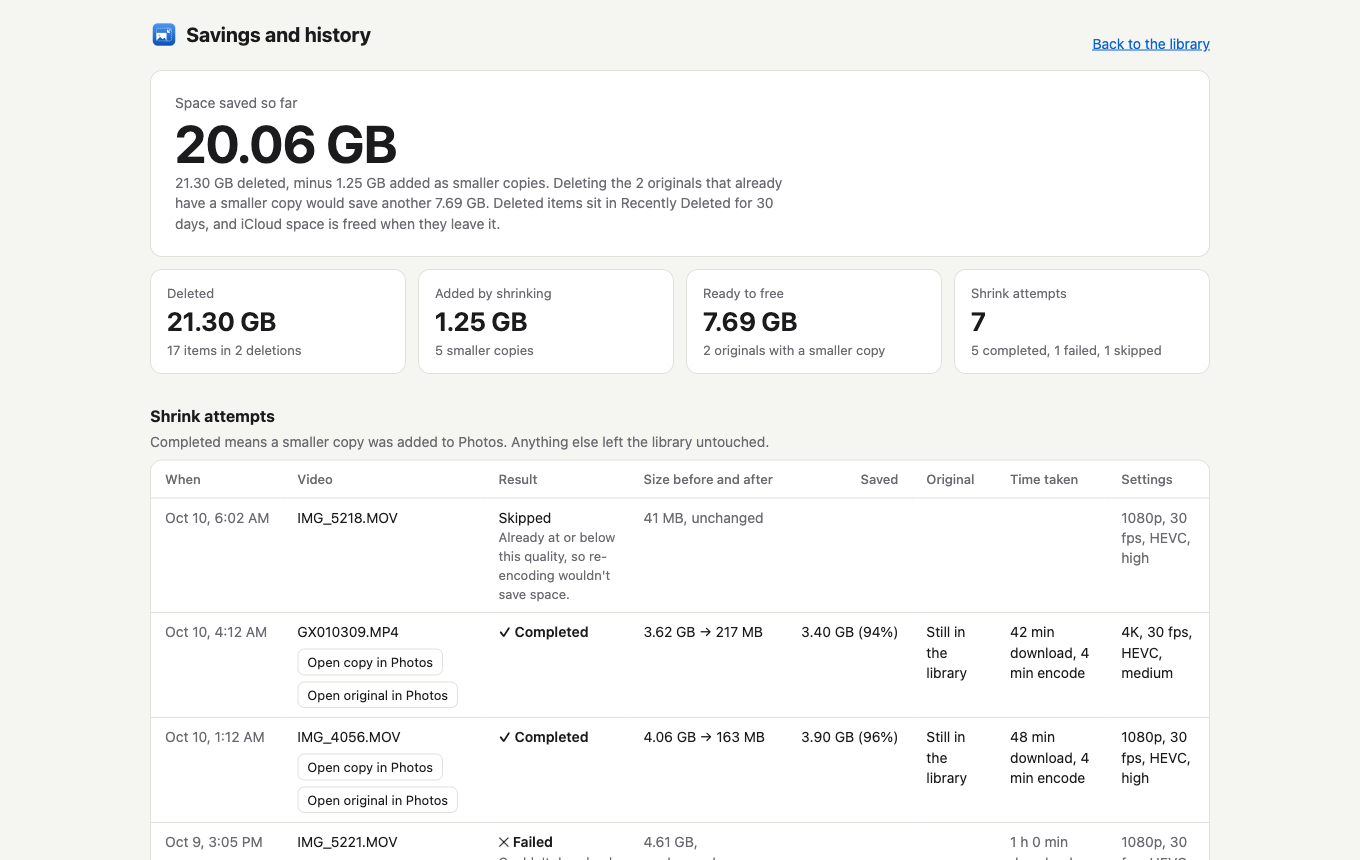
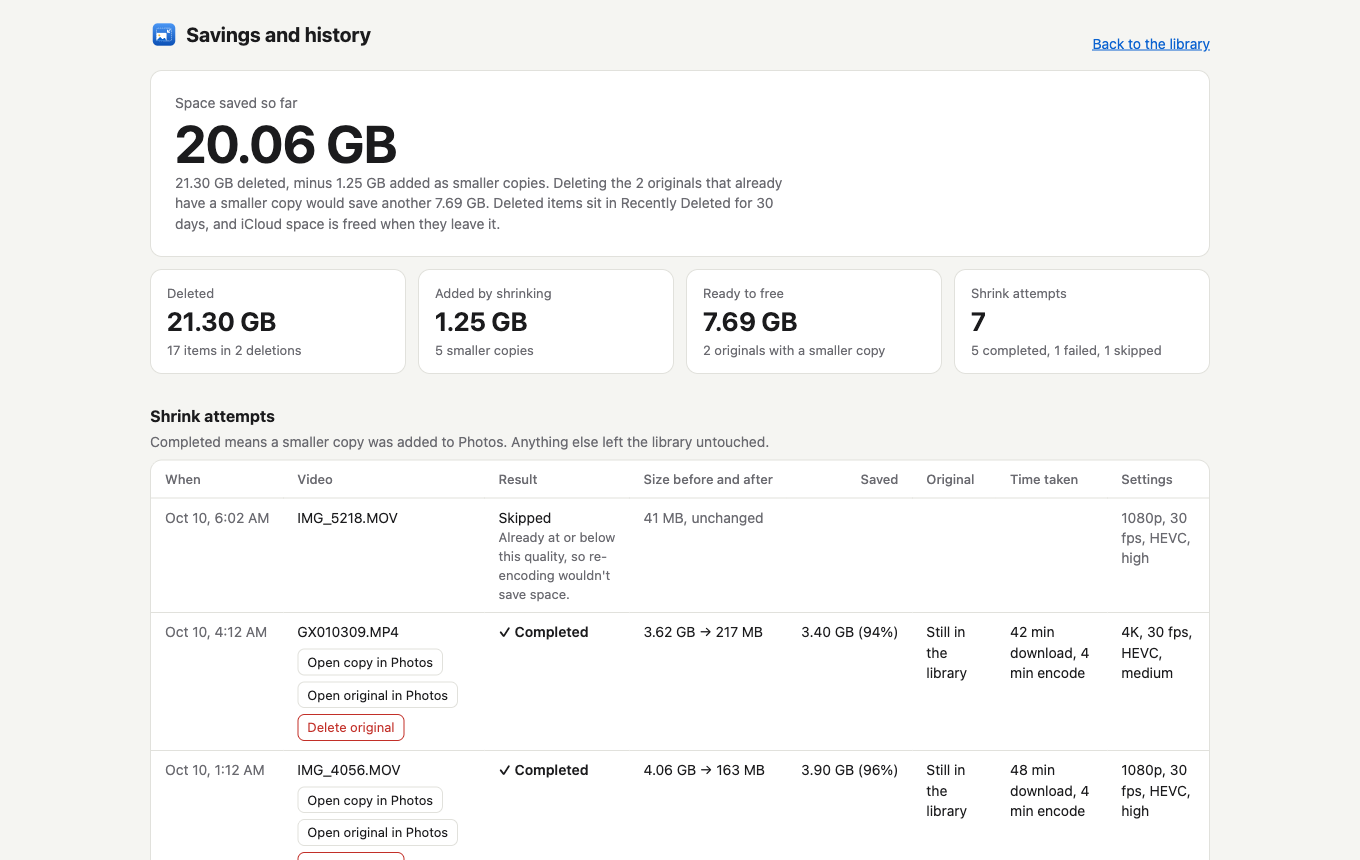
Delete originals after shrinking, and from the savings page
- Shrink dialog: optional "delete each original"; once the queue is idle
  the app asks Photos to delete the originals of the videos that shrank
  successfully, in one request so macOS confirms once
- An original is only queued for deletion if its copy runs the same length
- Savings page: Delete original button on rows whose original and copy
  are both still in the library

diff --git a/main.swift b/main.swift
@@ -591,6 +591,10 @@ final class Job {
     let settings: ShrinkSettings
     /// Encode only and leave the file in the temporary folder, without touching the library.
     let dryRun: Bool
+    /// Ask Photos to delete the original once the smaller copy is safely in the library.
+    let deleteOriginal: Bool
+    /// What became of that request: "" (not asked for), pending, deleted or kept.
+    var deletion = ""
     var state = "queued"  // queued, downloading, encoding, saving, done, skipped, failed, cancelled
     var progress = 0.0
     var message = ""
@@ -623,8 +627,9 @@ final class Job {
         ]
     }
 
-    init(id: Int, item: Item, settings: ShrinkSettings, dryRun: Bool) {
+    init(id: Int, item: Item, settings: ShrinkSettings, dryRun: Bool, deleteOriginal: Bool) {
         self.id = id
+        self.deleteOriginal = deleteOriginal && !dryRun
         assetId = item.id
         name = item.name
         originalBytes = item.bytes
@@ -641,6 +646,7 @@ final class Job {
             "originalBytes": originalBytes, "newBytes": newBytes, "newItem": newItem?.json ?? NSNull(),
             "item": original.json, "dryRun": dryRun, "settings": settings.json, "originalDeleted": originalDeleted,
             "seconds": Int(Date().timeIntervalSince(stateSince)), "remaining": remainingSeconds ?? NSNull(),
+            "deleteOriginal": deleteOriginal, "deletion": deletion,
         ]
     }
 }
@@ -653,19 +659,21 @@ final class Converter {
     private let queue = DispatchQueue(label: "shrink", qos: .userInitiated)
     private var jobs: [Job] = []
     private var nextId = 1
+    /// Finished jobs whose originals are to be deleted once nothing else is running.
+    private var awaitingDeletion: [Job] = []
 
     init(library: Library, history: History) {
         self.library = library
         self.history = history
     }
 
-    func enqueue(ids: [String], settings: ShrinkSettings, dryRun: Bool) -> Int {
+    func enqueue(ids: [String], settings: ShrinkSettings, dryRun: Bool, deleteOriginal: Bool) -> Int {
         var added = 0
         for id in ids {
             guard let item = library.item(id), item.isVideo else { continue }
             lock.lock()
             let busy = jobs.contains { $0.assetId == id && $0.isActive }
-            let job = Job(id: nextId, item: item, settings: settings, dryRun: dryRun)
+            let job = Job(id: nextId, item: item, settings: settings, dryRun: dryRun, deleteOriginal: deleteOriginal)
             if !busy {
                 // A fresh attempt replaces the rows left by earlier ones that didn't finish.
                 jobs.removeAll { $0.assetId == id && ["failed", "cancelled", "skipped"].contains($0.state) }
@@ -703,6 +711,40 @@ final class Converter {
         lock.lock()
         defer { lock.unlock() }
         return jobs.contains { $0.isActive }
+    }
+
+    /// Deletes library items through Photos (which asks the user to confirm) and records what was removed.
+    func delete(ids: [String], completion: @escaping (Bool, String?) -> Void) {
+        let doomed = ids.compactMap { library.item($0) }
+        library.delete(ids: ids) { ok, error in
+            if ok {
+                self.originalsDeleted(ids)
+                self.history.record([
+                    "type": "delete",
+                    "items": doomed.map { ["id": $0.id, "name": $0.name, "bytes": $0.bytes, "video": $0.isVideo] },
+                ])
+            }
+            completion(ok, error)
+        }
+    }
+
+    /// Once the queue has nothing left to do, asks Photos to delete the originals that were marked for it.
+    /// One request for the whole batch means one confirmation, not one per video in the middle of a long run.
+    private func deleteOriginalsIfIdle() {
+        lock.lock()
+        let idle = !jobs.contains { $0.isActive }
+        let batch = idle ? awaitingDeletion : []
+        if idle { awaitingDeletion = [] }
+        lock.unlock()
+        guard !batch.isEmpty else { return }
+        delete(ids: batch.map { $0.assetId }) { ok, error in
+            self.update { _ in
+                for job in batch {
+                    job.deletion = ok ? "deleted" : "kept"
+                    if !ok { job.message = error ?? "Photos didn't delete it." }
+                }
+            }
+        }
     }
 
     /// Notes which finished jobs have had their original deleted, so the page stops offering to select it.
@@ -784,13 +826,24 @@ final class Converter {
             update { _ in
                 job.newBytes = newBytes
                 job.newItem = newItem
+                guard job.deleteOriginal, let copy = newItem else { return }
+                // Only let go of an original whose copy runs the same length; anything else needs a human look.
+                if abs(copy.duration - asset.duration) < 1 {
+                    job.deletion = "pending"
+                    awaitingDeletion.append(job)
+                } else {
+                    job.deletion = "kept"
+                    job.message = "The copy's length differs from the original's, so check it before deleting."
+                }
             }
-            set(job, "done", message: job.dryRun ? output.path : "")
+            let note = job.dryRun ? output.path : job.message
+            set(job, "done", message: note)
         } catch let error as ShrinkError {
             set(job, error.state, message: error.message)
         } catch {
             set(job, "failed", message: error.localizedDescription)
         }
+        deleteOriginalsIfIdle()
     }
 
     /// The full-quality video with any edits applied, downloaded from iCloud if it isn't on this Mac.
@@ -1065,22 +1118,14 @@ final class Server {
             let payload = (try? JSONSerialization.jsonObject(with: request.body)) as? [String: Any]
             let ids = payload?["ids"] as? [String] ?? []
             guard !ids.isEmpty else { return sendJSON(connection, ["ok": false, "error": "Nothing selected."], status: 400) }
-            let doomed = ids.compactMap { self.library.item($0) }
-            library.delete(ids: ids) { ok, error in
-                if ok {
-                    self.converter.originalsDeleted(ids)
-                    self.history.record([
-                        "type": "delete",
-                        "items": doomed.map { ["id": $0.id, "name": $0.name, "bytes": $0.bytes, "video": $0.isVideo] },
-                    ])
-                }
+            converter.delete(ids: ids) { ok, error in
                 self.sendJSON(connection, ["ok": ok, "error": error ?? ""])
             }
         case ("POST", "/api/shrink"):
             let payload = (try? JSONSerialization.jsonObject(with: request.body)) as? [String: Any] ?? [:]
             let started = converter.enqueue(
                 ids: payload["ids"] as? [String] ?? [], settings: ShrinkSettings(payload),
-                dryRun: payload["dryRun"] as? Bool ?? false)
+                dryRun: payload["dryRun"] as? Bool ?? false, deleteOriginal: payload["deleteOriginal"] as? Bool ?? false)
             sendJSON(connection, ["ok": started > 0, "started": started, "error": started > 0 ? "" : "No videos to shrink."])
         case ("GET", "/api/jobs"):
             sendJSON(connection, ["jobs": converter.list()])

diff --git a/index.html b/index.html
@@ -81,6 +81,7 @@
   #shrink p { margin: 0 0 12px; color: var(--muted); font-size: 13px; }
   #shrink label { display: flex; align-items: center; justify-content: space-between; gap: 12px; margin: 8px 0; }
   #shrink select { width: 230px; }
+  #shrink label.check { justify-content: flex-start; gap: 8px; margin: 12px 0 4px; color: var(--fg); }
   #spreview { max-height: 170px; overflow: auto; border: 1px solid var(--line); border-radius: 8px; margin-top: 12px; font-size: 13px; }
   #spreview .line { display: flex; justify-content: space-between; gap: 12px; padding: 6px 10px; white-space: nowrap; }
   #spreview .line + .line { border-top: 1px solid var(--line); }
@@ -158,7 +159,7 @@
 <div id="shrink">
   <div class="dialog" role="dialog" aria-labelledby="stitle">
     <h2 id="stitle">Shrink videos</h2>
-    <p>Each video is downloaded from iCloud at full quality, re-encoded on this Mac, and added to Photos as a new item with the same date, location, favorite and albums. The original stays until you delete it.</p>
+    <p>Each video is downloaded from iCloud at full quality, re-encoded on this Mac, and added to Photos as a new item with the same date, location, favorite and albums. The original stays until you delete it, unless you tick the box below.</p>
     <label>Resolution <select id="sres">
       <option value="keep">Keep original</option><option value="2160">4K at most</option>
       <option value="1080">1080p at most</option><option value="720">720p at most</option></select></label>
@@ -170,6 +171,8 @@
       <option value="high">High</option><option value="medium">Medium</option><option value="low">Low</option></select></label>
     <div id="spreview"></div>
     <p id="sestimate"></p>
+    <label class="check"><input type="checkbox" id="sdelete"> Delete each original once its smaller copy is in Photos</label>
+    <p>macOS asks you to confirm once, when the whole queue has finished. Deleted originals stay in Recently Deleted for 30 days.</p>
     <p>HDR videos stay HDR and are always saved as HEVC. Edits are baked in, and captions, keywords and people tags don't carry over.</p>
     <div class="row"><button id="scancel">Cancel</button><button id="sstart" class="primary">Start</button></div>
   </div>
@@ -193,7 +196,7 @@
 const TOKEN = "__TOKEN__";
 const PAGE = 60;
 // `marked` is the selection (id -> item); `viewing` is the item open in the viewer, `current` its index in the list or -1.
-const state = { items: [], marked: new Map(), kind: "all", year: "", match: 0, status: "starting", current: -1, viewing: null, busy: false, jobs: new Map(), downloading: false, offline: false };
+const state = { items: [], marked: new Map(), kind: "all", year: "", match: 0, status: "starting", current: -1, viewing: null, busy: false, jobs: new Map(), gone: new Set(), downloading: false, offline: false };
 const $ = (id) => document.getElementById(id);
 
 function size(bytes) {
@@ -486,7 +489,7 @@ $("scancel").onclick = () => $("shrink").classList.remove("on");
 for (const id of ["sres", "sfps", "scodec", "squality"]) $(id).onchange = renderEstimate;
 $("sstart").onclick = async () => {
   const videos = selectedVideos();
-  const result = await post("/api/shrink", { ids: videos.map((item) => item.id), ...shrinkOptions() });
+  const result = await post("/api/shrink", { ids: videos.map((item) => item.id), ...shrinkOptions(), deleteOriginal: $("sdelete").checked });
   $("shrink").classList.remove("on");
   if (!result.ok) return toast(result.error);
   // Originals are selected again one by one as their smaller copies arrive.
@@ -515,7 +518,10 @@ function jobStatus(job) {
     case "done": {
       const saved = `${size(job.originalBytes)} → ${size(job.newBytes)}, saves ${Math.round(100 * (1 - job.newBytes / job.originalBytes))}%.`;
       if (!job.newItem) return saved + " Test run: nothing was added to Photos.";
-      return saved + (job.originalDeleted ? " Original deleted." : " Check the new copy, then delete the original.");
+      if (job.originalDeleted) return saved + " Original deleted.";
+      if (job.deletion === "pending") return saved + " The original will be deleted when the queue finishes; macOS will ask you to confirm.";
+      if (job.deletion === "kept") return saved + " Original kept: " + (job.message || "the deletion wasn't confirmed.");
+      return saved + " Check the new copy, then delete the original.";
     }
     default: return job.message;
   }
@@ -550,7 +556,7 @@ function renderJobs(jobs) {
     row.action.hidden = !active && !retry && !job.newItem;
     row.action.onclick = active ? async () => { await post("/api/jobs/cancel", { id: job.id }); pollJobs(); }
       : retry ? async () => {
-        const result = await post("/api/shrink", { ids: [job.assetId], ...job.settings });
+        const result = await post("/api/shrink", { ids: [job.assetId], ...job.settings, deleteOriginal: job.deleteOriginal });
         if (!result.ok) toast(result.error);
         pollJobs();
       }
@@ -572,13 +578,19 @@ async function pollJobs() {
     pollJobs.timer = setTimeout(pollJobs, 6000);
     return;
   }
-  let finished = 0;
+  let finished = 0, removed = 0;
   for (const job of jobs) {
     const before = state.jobs.get(job.id);
-    if (job.state === "done" && job.newItem && before && before !== "done") {
+    if (job.state === "done" && job.newItem && !job.deleteOriginal && before && before !== "done") {
       // Select the original so it's ready to delete once the new copy has been checked.
       state.marked.set(job.assetId, job.item);
       finished++;
+    }
+    // An original deleted by the app itself drops out of the list, so the grid needs a refresh.
+    if (job.originalDeleted && !state.gone.has(job.id)) {
+      state.gone.add(job.id);
+      state.marked.delete(job.assetId);
+      removed++;
     }
     state.jobs.set(job.id, job.state);
   }
@@ -586,8 +598,8 @@ async function pollJobs() {
   renderJobs(jobs);
   // The app is answering again after a spell of not responding, so refresh the list too.
   if (state.offline && !state.viewing && !state.busy) await load({ limit: Math.max(PAGE, state.items.length) });
-  if (finished) {
-    toast(`${finished} smaller cop${finished === 1 ? "y is" : "ies are"} in Photos. The original${finished === 1 ? " is" : "s are"} selected, ready to delete.`);
+  if (finished) toast(`${finished} smaller cop${finished === 1 ? "y is" : "ies are"} in Photos. The original${finished === 1 ? " is" : "s are"} selected, ready to delete.`);
+  if (finished || removed) {
     if (!state.viewing && !state.busy) await load({ limit: Math.max(PAGE, state.items.length) });
     else renderBar();
   }

diff --git a/stats.html b/stats.html
@@ -8,12 +8,12 @@
 <style>
   :root {
     --bg: #f5f5f2; --card: #ffffff; --fg: #1b1b1d; --muted: #6a6a70; --line: #e1e1dc;
-    --accent: #0a62d0;
+    --accent: #0a62d0; --danger: #c22f28;
   }
   @media (prefers-color-scheme: dark) {
     :root {
       --bg: #151517; --card: #212124; --fg: #f1f1f2; --muted: #9b9ba2; --line: #34343a;
-      --accent: #63a6ff;
+      --accent: #63a6ff; --danger: #ff6a60;
     }
   }
   * { box-sizing: border-box; }
@@ -25,6 +25,8 @@
   h1 img { width: 28px; height: 28px; }
   button { font: inherit; font-size: 13px; color: inherit; cursor: pointer; border: 1px solid var(--line); background: var(--card); border-radius: 7px; padding: 3px 9px; white-space: nowrap; }
   .links { display: flex; flex-wrap: wrap; gap: 6px; margin-top: 6px; }
+  button.danger { color: var(--danger); border-color: var(--danger); }
+  button:disabled { opacity: .6; cursor: default; }
   #toast { position: fixed; left: 50%; bottom: 28px; transform: translateX(-50%); background: var(--fg); color: var(--bg); padding: 9px 16px; border-radius: 8px; display: none; max-width: 80vw; }
   h2 { margin: 30px 0 8px; font-size: 16px; }
   .muted { color: var(--muted); }
@@ -85,6 +87,27 @@ async function openInPhotos(id) {
     result = { ok: false, error: "Photo Review isn't responding." };
   }
   if (!result.ok) toast("Couldn't open it in Photos: " + result.error);
+}
+// Asks Photos to delete the original of a finished shrink. macOS shows its own confirmation first.
+async function deleteOriginal(event, button) {
+  button.disabled = true;
+  button.textContent = "Confirm in the Photo Review dialog…";
+  let result;
+  try {
+    const response = await fetch("/api/delete", { method: "POST", headers: { "X-Token": TOKEN, "Content-Type": "application/json" }, body: JSON.stringify({ ids: [event.assetId] }) });
+    if (response.status === 403) return location.reload();  // the app was restarted; this page is stale
+    result = await response.json();
+  } catch (error) {
+    result = { ok: false, error: "Photo Review isn't responding." };
+  }
+  if (result.ok) {
+    toast(`Moved the original of ${event.name} (${size(event.originalBytes)}) to Recently Deleted.`);
+  } else {
+    toast(result.error || "Nothing was deleted.");
+    button.disabled = false;
+    button.textContent = "Delete original";
+  }
+  refresh();
 }
 function photosButton(label, id) {
   const button = el("button", { textContent: label });
@@ -188,10 +211,14 @@ function render(data) {
           ]);
         }
         const original = !e.copyExists ? "Smaller copy deleted" : e.originalExists ? "Still in the library" : "Deleted";
-        // Only items still in the library can be shown in Photos.
+        // Only items still in the library can be shown in Photos, and an original is only offered for
+        // deletion while its smaller copy is still there to take its place.
+        const remove = el("button", { className: "danger", textContent: "Delete original" });
+        remove.onclick = () => deleteOriginal(e, remove);
         const links = el("div", { className: "links" }, [
           ...(e.copyExists ? [photosButton("Open copy in Photos", e.newId)] : []),
           ...(e.originalExists ? [photosButton("Open original in Photos", e.assetId)] : []),
+          ...(e.originalExists && e.copyExists ? [remove] : []),
         ]);
         return el("tr", {}, [
           cell(when(e.time), "when"), el("td", { className: "name" }, [el("div", { textContent: e.name }), links]), result,
@@ -216,6 +243,7 @@ function render(data) {
 
 let last = "";
 async function refresh() {
+  clearTimeout(refresh.timer);
   try {
     const text = await (await fetch("/api/stats")).text();
     // Only redraw when something changed, so text stays selectable between refreshes.
@@ -226,7 +254,7 @@ async function refresh() {
   } catch (error) {
     if (!last) $("content").replaceChildren(el("p", { className: "muted", textContent: "Photo Review isn't responding. Open the app, then reload this page." }));
   }
-  setTimeout(refresh, 5000);
+  refresh.timer = setTimeout(refresh, 5000);
 }
 refresh();
 </script>

diff --git a/README.md b/README.md
@@ -41,8 +41,10 @@ Photos has no way to swap a video's file in place, so a shrink is three steps:
 2. It is re-encoded on your Mac with Apple's hardware encoder.
 3. The smaller copy is added to Photos as a new item, named like `IMG_1234 (shrunk).mov`.
 
-The original is left alone. When you have checked the new copy, you delete the original yourself. If a
-re-encode would not save a meaningful amount, the video is skipped instead.
+The original is left alone. When you have checked the new copy, you delete the original yourself. Or tick
+"Delete each original" when starting a batch: once the whole queue has finished, the app asks Photos to delete
+the originals of the videos that shrank successfully, and macOS asks you to confirm once. If a re-encode
+would not save a meaningful amount, the video is skipped instead.
 
 As an example, a 43-second 4K HDR iPhone clip went from 482 MB to 27 MB at 1080p, 30 fps, medium quality.
 Savings are largest on ProRes and high-bitrate action-camera footage.
